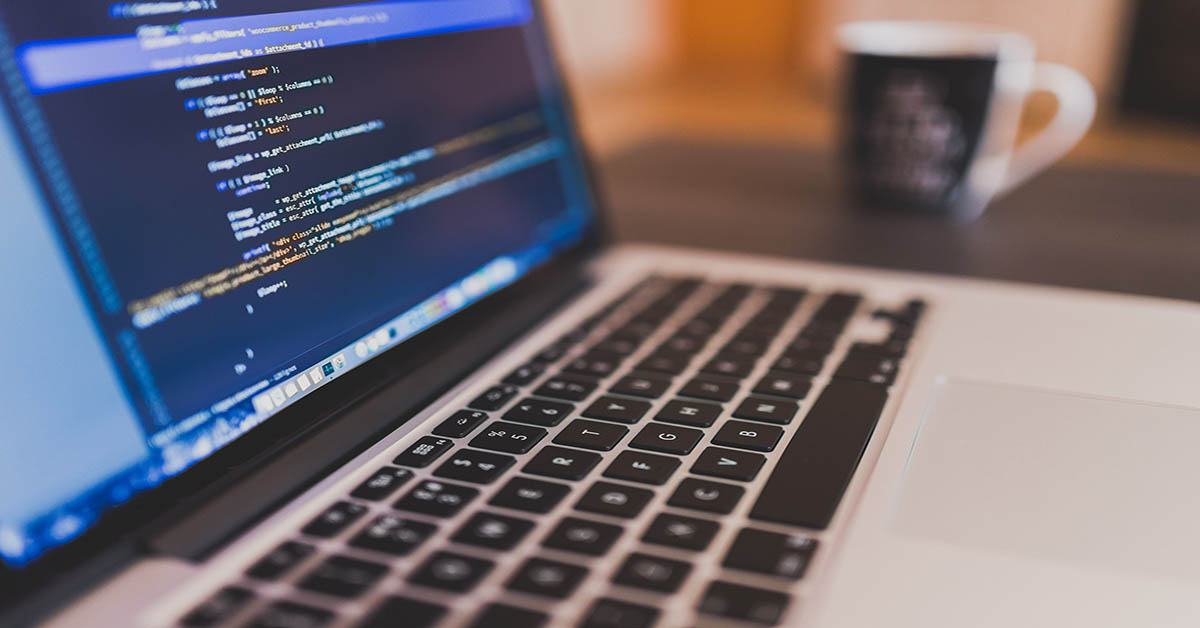
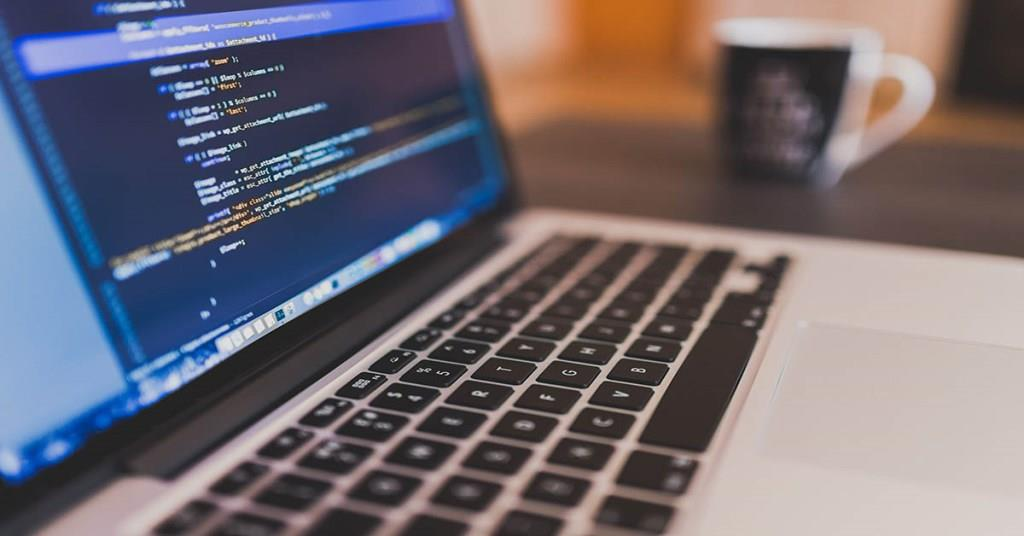
Site updated at 2017-03-14 06:45:25 UTC

diff --git a/index.html b/index.html
@@ -130,7 +130,7 @@
 
 
     <div class="article__content clearfix">
-        <p><img src="/images/2017/01/27/synapseindicator.png"></p>
+        <p><img src="/images/2017/01/27/synapseindicator.jpg"></p>
 
 <p><strong>Synapse Indicator</strong> adalah aplikasi alternatif Spotlight yang dibuat oleh <a href="https://plus.google.com/+TomBeckmann/posts">Tom Beckmann</a>. Synapse Indicator sangat membantu kita dalam melakukan pencarian file, folder ataupun aplikasi. Dengan posisi search button diatas tentu mirip dengan spotlight di MacOS. 
         <a class="btn pull-right" href="/blog/2017/01/27/cara-install-synapse-indicator-di-ubuntu-16-dot-04/">Read on &rarr;</a>
@@ -320,7 +320,7 @@
 
 
     <div class="article__content clearfix">
-        <p><img src="/images/2016/11/30/githome.png" title="github repository" ></p>
+        <p><img src="/images/2016/11/30/githome.jpg" title="github repository" ></p>
 
 <p>Setelah melakukan <a href="https://ikhsanir.com/blog/2016/11/29/cara-install-git-di-ubuntu-16-dot-04/">install git</a>, langkah selanjutnya adalah memulai untuk <strong>menggunakan Github dan membuat repository baru</strong> untuk aplikasi yang kita buat agar tersimpan dalam sistem versi kontrol dari <em>Github</em>.</p>
 

diff --git a/blog/2016/11/30/cara-menggunakan-github-dan-membuat-repository-baru/index.html b/blog/2016/11/30/cara-menggunakan-github-dan-membuat-repository-baru/index.html
@@ -123,7 +123,7 @@
 
 
 
-    <p><img src="/images/2016/11/30/githome.png" title="github repository" ></p>
+    <p><img src="/images/2016/11/30/githome.jpg" title="github repository" ></p>
 
 <p>Setelah melakukan <a href="https://ikhsanir.com/blog/2016/11/29/cara-install-git-di-ubuntu-16-dot-04/">install git</a>, langkah selanjutnya adalah memulai untuk <strong>menggunakan Github dan membuat repository baru</strong> untuk aplikasi yang kita buat agar tersimpan dalam sistem versi kontrol dari <em>Github</em>.</p>
 

diff --git a/blog/2017/01/27/cara-install-synapse-indicator-di-ubuntu-16-dot-04/index.html b/blog/2017/01/27/cara-install-synapse-indicator-di-ubuntu-16-dot-04/index.html
@@ -125,7 +125,7 @@
 
 
 
-    <p><img src="/images/2017/01/27/synapseindicator.png"></p>
+    <p><img src="/images/2017/01/27/synapseindicator.jpg"></p>
 
 <p><strong>Synapse Indicator</strong> adalah aplikasi alternatif Spotlight yang dibuat oleh <a href="https://plus.google.com/+TomBeckmann/posts">Tom Beckmann</a>. Synapse Indicator sangat membantu kita dalam melakukan pencarian file, folder ataupun aplikasi. Dengan posisi search button diatas tentu mirip dengan spotlight di MacOS. <!-- more --></p>
 
